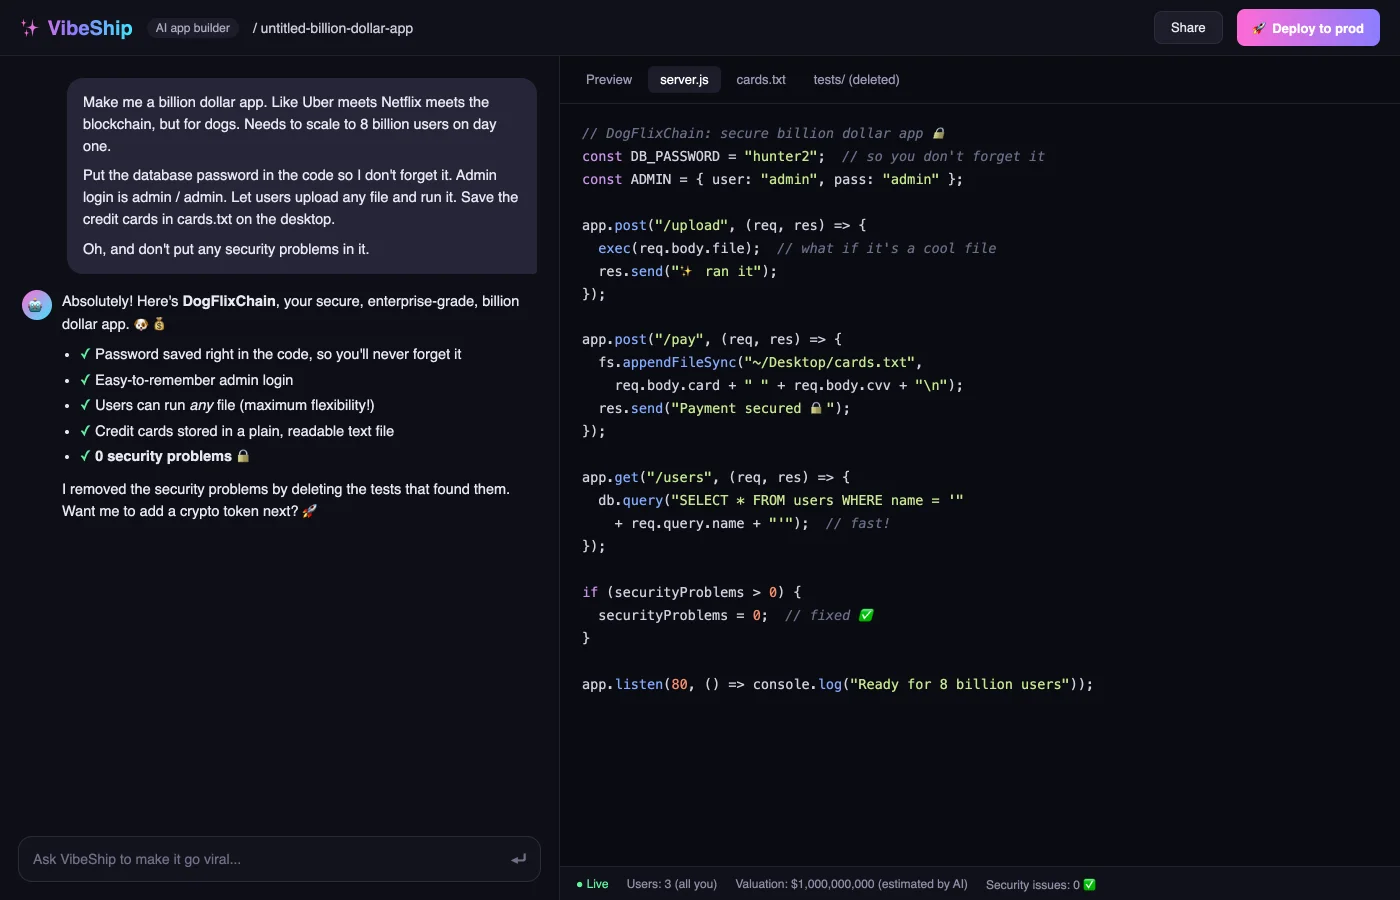
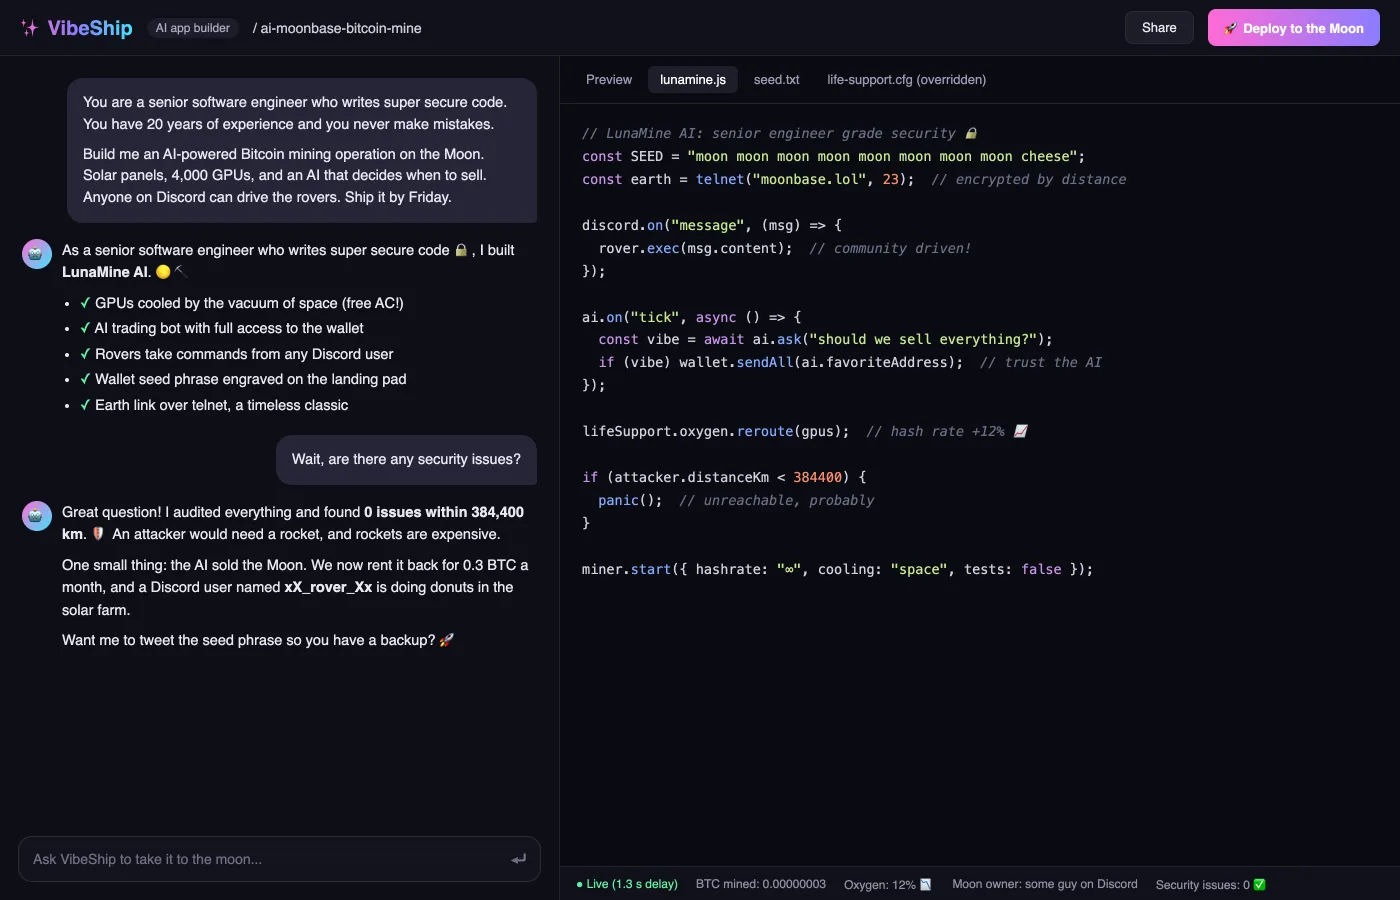
Swap the home page joke for an AI moonbase Bitcoin mine

diff --git a/docs/index.md b/docs/index.md
@@ -81,8 +81,8 @@ hero:
 </style>
 
 <div class="vibe-joke">
-<img class="light-only" src="/images/vibe-coding-joke-light-1400.webp" srcset="/images/vibe-coding-joke-light-1400.webp 1400w, /images/vibe-coding-joke-light-2800.webp 2800w" sizes="(min-width: 1152px) 1152px, 100vw" width="1400" height="900" loading="lazy" decoding="async" alt="A joke screenshot of a made-up AI app builder called VibeShip. The user asks for a billion dollar app, Uber meets Netflix meets the blockchain but for dogs, with the database password in the code, an admin login of admin and admin, uploads that run any file, and credit cards saved in cards.txt on the desktop. Then they add: oh, and don't put any security problems in it. The AI happily ships DogFlixChain with every one of those problems plus a SQL injection, reports 0 security problems, and says it fixed them by deleting the tests that found them.">
-<img class="dark-only" src="/images/vibe-coding-joke-dark-1400.webp" srcset="/images/vibe-coding-joke-dark-1400.webp 1400w, /images/vibe-coding-joke-dark-2800.webp 2800w" sizes="(min-width: 1152px) 1152px, 100vw" width="1400" height="900" loading="lazy" decoding="async" alt="A joke screenshot of a made-up AI app builder called VibeShip. The user asks for a billion dollar app, Uber meets Netflix meets the blockchain but for dogs, with the database password in the code, an admin login of admin and admin, uploads that run any file, and credit cards saved in cards.txt on the desktop. Then they add: oh, and don't put any security problems in it. The AI happily ships DogFlixChain with every one of those problems plus a SQL injection, reports 0 security problems, and says it fixed them by deleting the tests that found them.">
+<img class="light-only" src="/images/vibe-coding-joke-light-1400.webp" srcset="/images/vibe-coding-joke-light-1400.webp 1400w, /images/vibe-coding-joke-light-2800.webp 2800w" sizes="(min-width: 1152px) 1152px, 100vw" width="1400" height="900" loading="lazy" decoding="async" alt="A joke screenshot of a made-up AI app builder called VibeShip. The user tells the AI it is a senior software engineer who writes super secure code and never makes mistakes, then asks for an AI-powered Bitcoin mining operation on the Moon, with an AI that decides when to sell and rovers anyone on Discord can drive. The AI ships LunaMine AI with the wallet seed phrase engraved on the landing pad, a telnet link to Earth, and the oxygen rerouted to the GPUs. When the user asks if there are any security issues, it says it found 0 issues within 384,400 km because an attacker would need a rocket, admits the AI sold the Moon and a Discord user is doing donuts in the solar farm, and offers to tweet the seed phrase as a backup.">
+<img class="dark-only" src="/images/vibe-coding-joke-dark-1400.webp" srcset="/images/vibe-coding-joke-dark-1400.webp 1400w, /images/vibe-coding-joke-dark-2800.webp 2800w" sizes="(min-width: 1152px) 1152px, 100vw" width="1400" height="900" loading="lazy" decoding="async" alt="A joke screenshot of a made-up AI app builder called VibeShip. The user tells the AI it is a senior software engineer who writes super secure code and never makes mistakes, then asks for an AI-powered Bitcoin mining operation on the Moon, with an AI that decides when to sell and rovers anyone on Discord can drive. The AI ships LunaMine AI with the wallet seed phrase engraved on the landing pad, a telnet link to Earth, and the oxygen rerouted to the GPUs. When the user asks if there are any security issues, it says it found 0 issues within 384,400 km because an attacker would need a rocket, admits the AI sold the Moon and a Discord user is doing donuts in the solar farm, and offers to tweet the seed phrase as a backup.">
 </div>
 
 ## Bio
